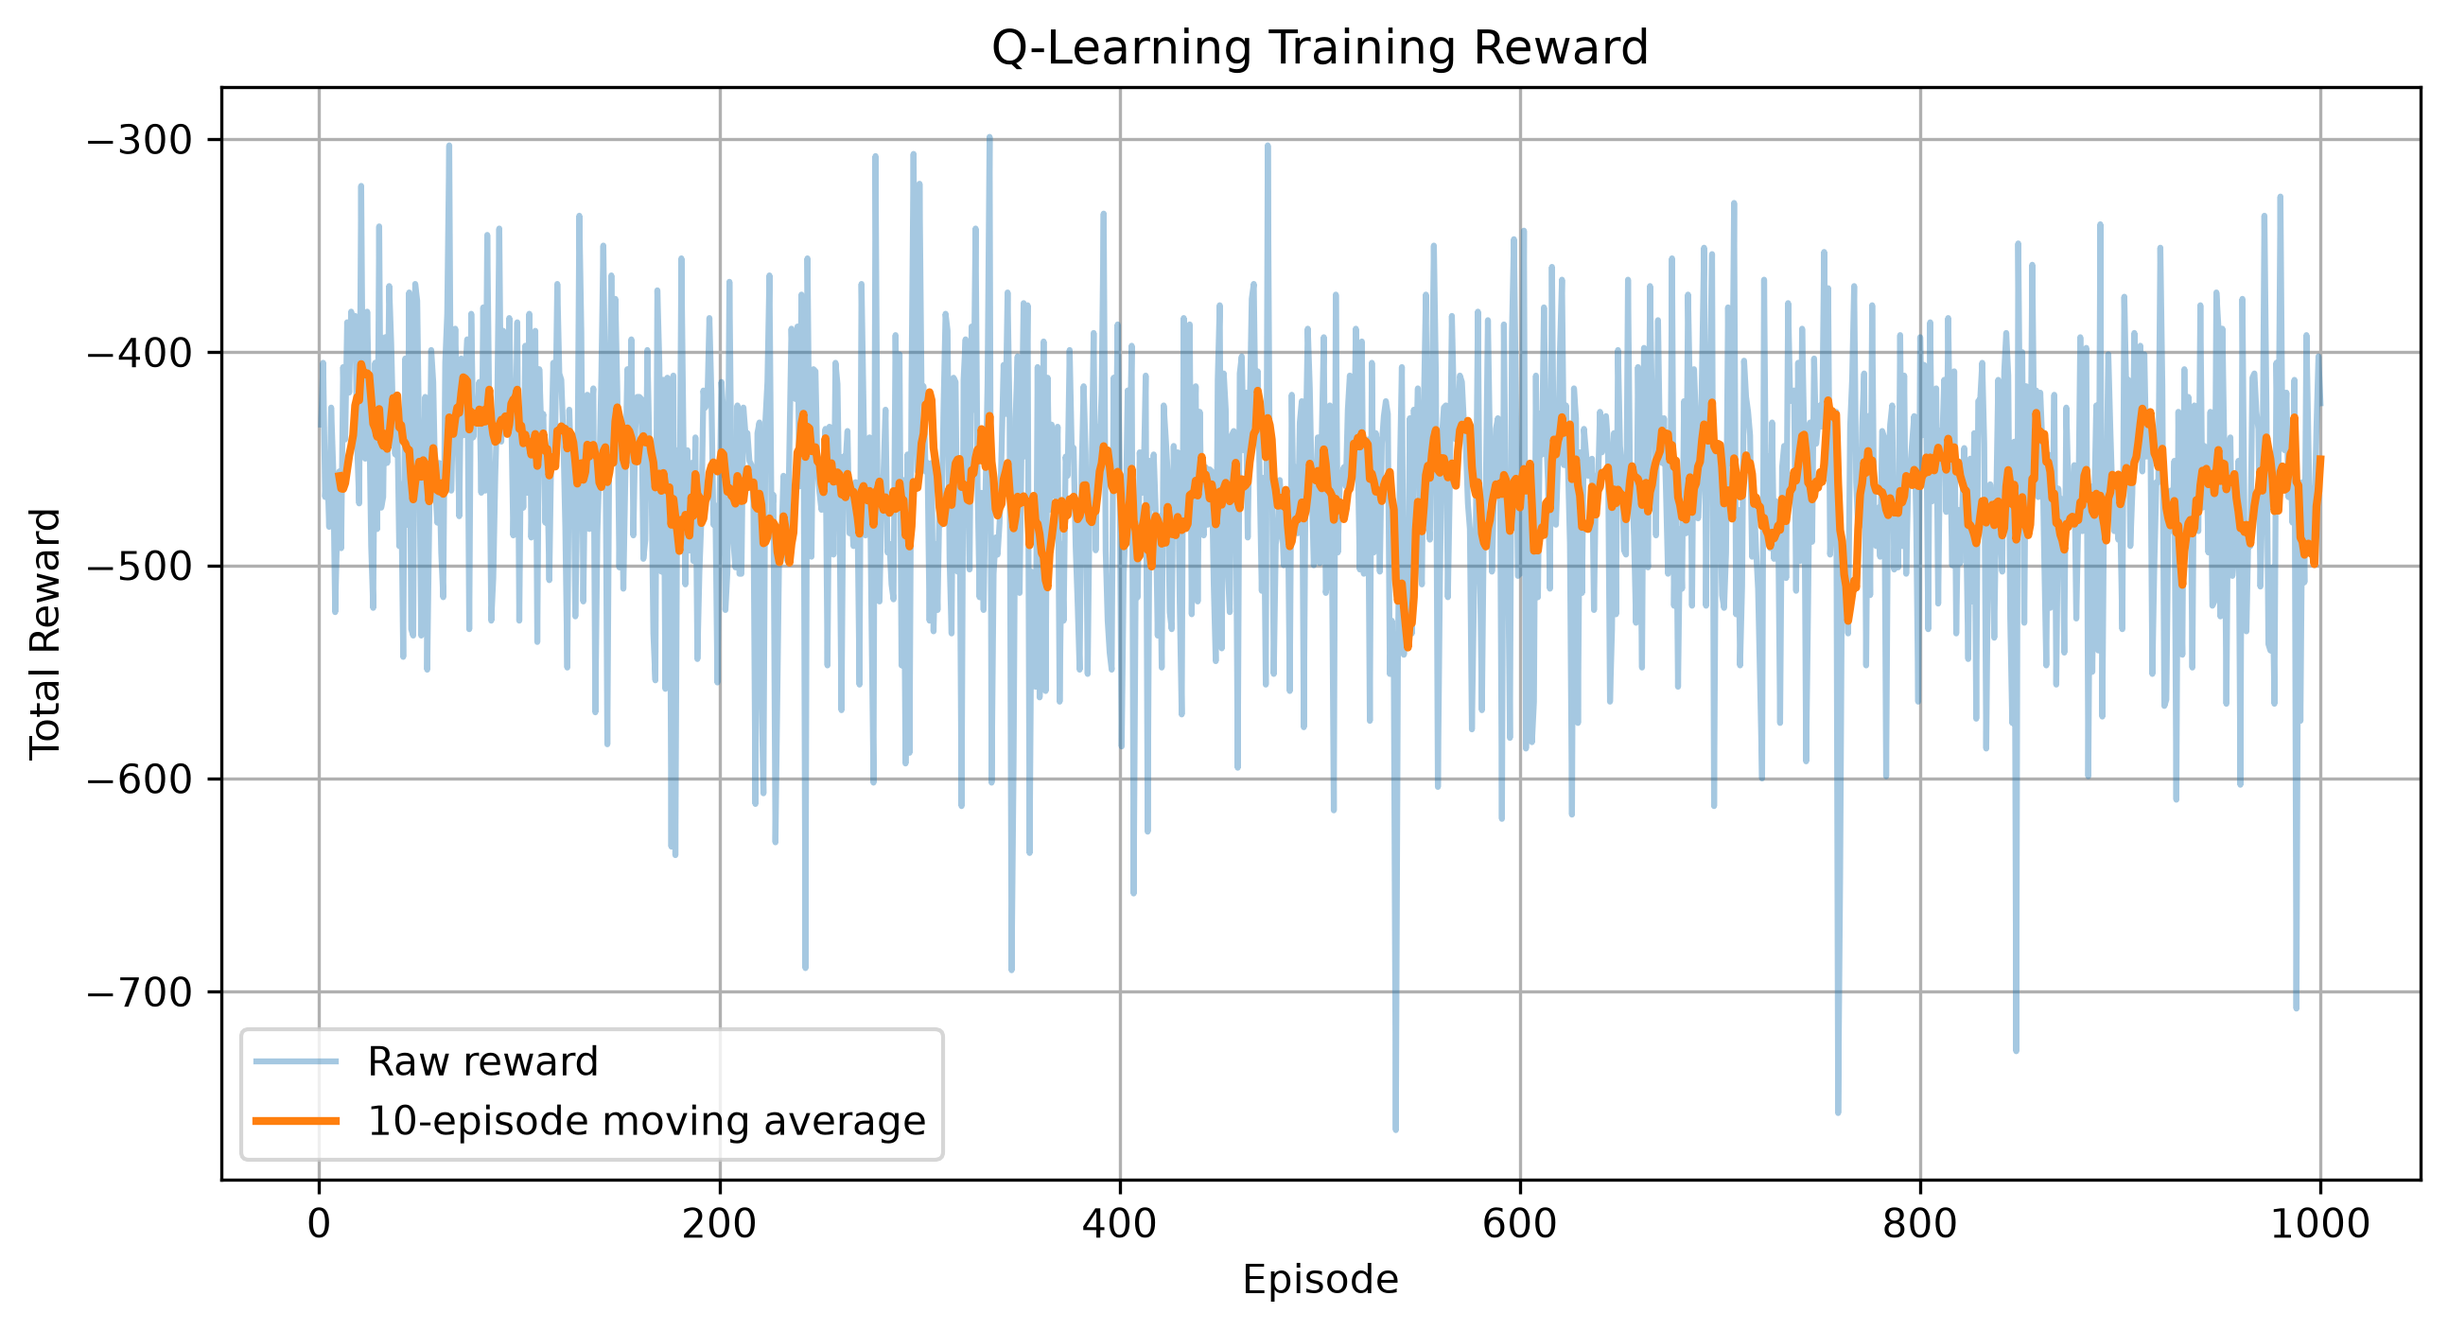
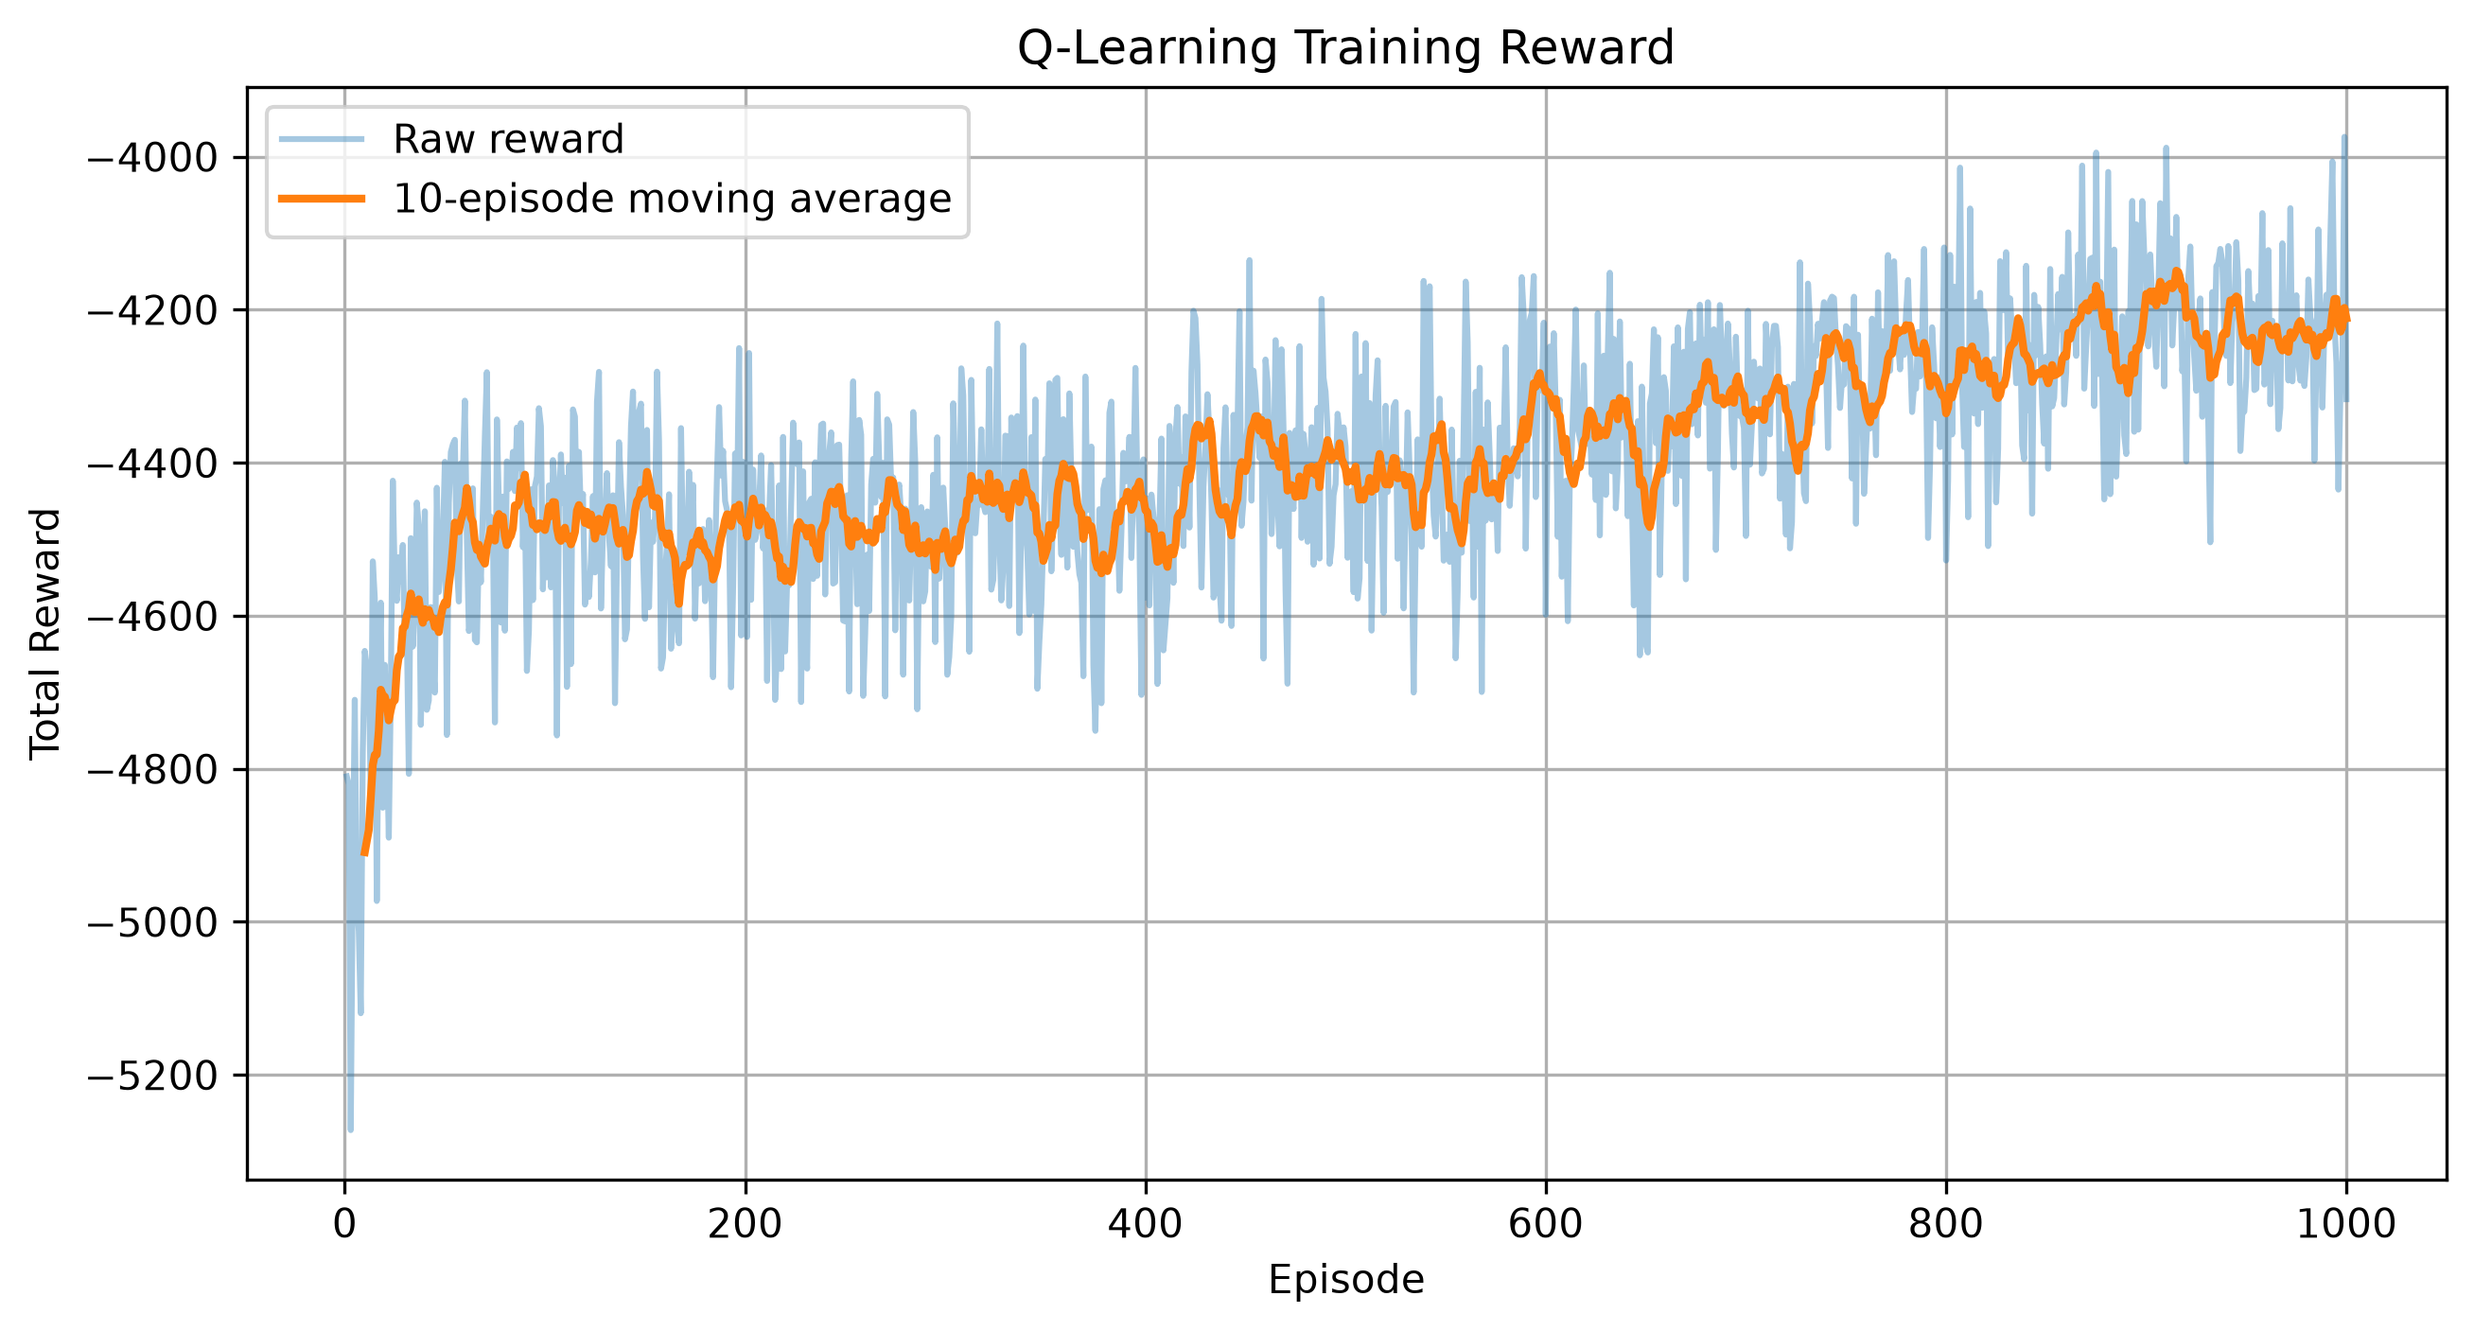
Stage 4: final single-day Q-learning agent, held-out evaluation, diagnostics

diff --git a/backend/rl/env.py b/backend/rl/env.py
@@ -8,8 +8,17 @@ DIR_CODE = {Direction.UP: 1, Direction.DOWN: -1, Direction.IDLE: 0}
 PERIOD_CODE = {TrafficPeriod.MORNING: 0, TrafficPeriod.LUNCH: 1, TrafficPeriod.EVENING: 2}
 
 # --- State abstraction settings (tune these to trade detail vs. learnability) ---
-ZONE_SIZE = 3             # floors per zone; 3 -> ~4 zones for 10 floors, 2 -> 5 zones (finer)
-LOAD_FULL_THRESHOLD = 6   # load at or above this counts as "full"; set to ~75% of elevator capacity
+ZONE_SIZE = 3             # floors per zone (v1 helpers, kept for compatibility)
+LOAD_FULL_THRESHOLD = 6   # load at or above this counts as "full"; ~75% of elevator capacity
+
+# --- State abstraction v2: features relative to the pending request ---
+DIST_NEAR = 2   # up to this many floors away = "near"
+DIST_MID = 5    # up to this many floors away = "mid", beyond = "far"
+
+# --- Reward shaping weights (tunable) ---
+ASSIGN_LOAD_COST = 1.0        # per request already held by the chosen elevator
+ASSIGN_DIST_COST = 0.5        # per floor between the chosen elevator and the pickup floor
+WAIT_COST_PER_REQUEST = 0.05  # per request in the system, per tick
 
 
 def floor_to_zone(floor: int) -> int:
@@ -26,19 +35,43 @@ def load_bucket(load: int) -> int:
     return 2
 
 
+def workload_bucket(n: int) -> int:
+    """Requests already assigned to or carried by an elevator."""
+    if n == 0:
+        return 0
+    if n <= 2:
+        return 1
+    if n <= 5:
+        return 2
+    return 3
+
+
+def distance_bucket(d: int) -> int:
+    """0 = near, 1 = mid, 2 = far (distance in floors to the pickup floor)."""
+    if d <= DIST_NEAR:
+        return 0
+    if d <= DIST_MID:
+        return 1
+    return 2
+
+
 class ElevatorEnv:
     """
-    STATE:  for each elevator -> (floor zone, direction, load bucket)
-            + pending request -> (source floor zone, direction of travel)
-            + current period
-            (abstracted on purpose: exact floors/loads gave ~87,000 states,
-            far too many for tabular Q-learning to cover)
-    ACTION: integer 0..NUM_ELEVATORS-1 — which elevator serves the
+    STATE:  for each elevator -> (workload bucket, distance bucket), where
+            workload = requests assigned to it + passengers onboard
+            (0, 1-2, 3-5, 6+) and distance = floors between the elevator
+            and the pending request's pickup floor (near / mid / far).
+            If no request is pending, the state is (-1,).
+            At most 12^3 + 1 = 1729 states.
+    ACTION: integer 0..NUM_ELEVATORS-1 - which elevator serves the
             current pending request
-    REWARD: -1 * waiting_time of each request completed this step
-            -0.1 per elevator that moved with no pickup/drop-off
-            work assigned (penalizes truly unnecessary movement,
-            not movement in general)
+    REWARD (shaped):
+            - at assignment: -(ASSIGN_LOAD_COST * requests the chosen elevator
+              already holds + ASSIGN_DIST_COST * its distance to the pickup
+              floor), so the consequence of the action is visible immediately
+            - every tick: -WAIT_COST_PER_REQUEST for each request in the
+              system (waiting, assigned or onboard)
+            - -0.1 per elevator that moved with no pickup/drop-off work
     EPISODE: one full simulated day (SIMULATION_STEPS)
     """
 
@@ -46,27 +79,29 @@ class ElevatorEnv:
         self.building = None
         self.simulator = None
 
-    def reset(self):
+    def reset(self, seed=None):
+        """Start a new simulated day. With no seed, use the default day
+        (RANDOM_SEED); pass a seed to get a different traffic pattern."""
         self.building = Building()
-        traffic_gen = TrafficGenerator(seed=RANDOM_SEED)
+        if seed is None:
+            seed = RANDOM_SEED
+        traffic_gen = TrafficGenerator(seed=seed)
         self.simulator = Simulator(self.building, traffic_gen)
         return self._encode_state()
 
     def _encode_state(self):
-        elevator_state = tuple(
-            (floor_to_zone(e.current_floor), DIR_CODE[e.direction], load_bucket(e.current_load))
+        req = self.building.next_waiting_request()
+        if req is None:
+            return (-1,)  # no pending request
+
+        src = req.passenger.source_floor
+        return tuple(
+            (
+                workload_bucket(len(e.assigned_requests) + len(e.onboard_requests)),
+                distance_bucket(abs(e.current_floor - src)),
+            )
             for e in self.building.elevators
         )
-        req = self.building.next_waiting_request()
-        if req:
-            src = req.passenger.source_floor
-            dst = req.passenger.destination_floor
-            travel_dir = 1 if dst > src else (-1 if dst < src else 0)
-            req_state = (floor_to_zone(src), travel_dir)
-        else:
-            req_state = (-1, 0)  # no pending request (-1 can't clash with a real zone)
-        period_state = PERIOD_CODE[self.building.current_period]
-        return elevator_state + req_state + (period_state,)
 
     def step(self, action: int):
         reward = 0.0
@@ -74,17 +109,26 @@ class ElevatorEnv:
 
         if req is not None:
             elevator = self.building.elevators[action]
+
+            # Immediate, action-dependent cost (measured before assigning)
+            load_before = len(elevator.assigned_requests) + len(elevator.onboard_requests)
+            dist = abs(elevator.current_floor - req.passenger.source_floor)
+            reward -= ASSIGN_LOAD_COST * load_before + ASSIGN_DIST_COST * dist
+
             elevator.assign_request(req)
             self.building.remove_request(req)
 
-        completed_before = self.building.completed_count
         self.simulator.tick()
-        completed_after = self.building.completed_count
 
-        # Reward: penalize waiting time for every request completed this step
-        newly_completed = self.building.completed_requests[completed_before:completed_after]
-        for r in newly_completed:
-            reward -= r.passenger.waiting_time or 0
+        # Small per-tick cost for every request still in the system
+        pending = self.building.pending_requests
+        if not isinstance(pending, int):
+            pending = len(pending)
+        in_system = pending + sum(
+            len(e.assigned_requests) + len(e.onboard_requests)
+            for e in self.building.elevators
+        )
+        reward -= WAIT_COST_PER_REQUEST * in_system
 
         # Small penalty for elevator movement with nothing to justify it
         for e in self.building.elevators:

diff --git a/backend/rl/test_q_learning.py b/backend/rl/test_q_learning.py
@@ -16,10 +16,11 @@ RESULTS_DIR.mkdir(parents=True, exist_ok=True)
 # =====================================================
 NUM_EPISODES = 1000
 MOVING_AVERAGE_WINDOW = 10
-EVAL_EPISODES = 10          # average the evaluation over several runs
+EVAL_SEEDS = list(range(1000, 1010))  # held-out days used for evaluation
+EVAL_EPISODES = len(EVAL_SEEDS)
 
 # =====================================================
-# Train
+# Train (single fixed day)
 # =====================================================
 env = ElevatorEnv()
 agent = QLearningAgent(epsilon_decay=0.99)
@@ -40,14 +41,14 @@ loaded_agent.load_q_table()
 print("States loaded:", len(loaded_agent.q_table))
 
 # =====================================================
-# Evaluate the trained agent (no exploration)
+# Evaluate the trained agent on held-out days (no exploration)
 # =====================================================
 loaded_agent.epsilon = 0.0
 
 served_list, waiting_list, avg_wait_list, reward_list = [], [], [], []
 
-for _ in range(EVAL_EPISODES):
-    state = env.reset()
+for eval_seed in EVAL_SEEDS:
+    state = env.reset(seed=eval_seed)
     done = False
     total_reward = 0.0
 
@@ -78,7 +79,7 @@ still_waiting = mean(waiting_list)
 avg_wait = mean(avg_wait_list)
 total_reward = mean(reward_list)
 
-print(f"\nTrained Agent Evaluation (mean of {EVAL_EPISODES} episodes)")
+print(f"\nTrained Agent Evaluation (mean of {EVAL_EPISODES} held-out days)")
 print("------------------------")
 print("Passengers served:", f"{completed:.1f}")
 print("Passengers still waiting:", f"{still_waiting:.1f}")
@@ -94,6 +95,8 @@ with open(results_file, "w", encoding="utf-8") as file:
     file.write("Q-LEARNING STAGE 4 RESULTS\n")
     file.write("==========================\n\n")
     file.write(f"Training episodes: {len(history)}\n")
+    file.write("Training traffic: single fixed day (default seed)\n")
+    file.write(f"Evaluation traffic seeds: {EVAL_SEEDS[0]} to {EVAL_SEEDS[-1]}\n")
     file.write(f"Learning rate (alpha): {agent.alpha}\n")
     file.write(f"Discount factor (gamma): {agent.gamma}\n")
     file.write("Initial epsilon: 1.0\n")
@@ -102,7 +105,7 @@ with open(results_file, "w", encoding="utf-8") as file:
     file.write(f"Final epsilon: {agent.epsilon:.3f}\n")
     file.write(f"States learned: {len(agent.q_table)}\n")
     file.write(f"States loaded: {len(loaded_agent.q_table)}\n\n")
-    file.write(f"Trained Agent Evaluation (mean of {EVAL_EPISODES} episodes)\n")
+    file.write(f"Trained Agent Evaluation (mean of {EVAL_EPISODES} held-out days)\n")
     file.write("------------------------\n")
     file.write(f"Passengers served: {completed:.1f}\n")
     file.write(f"Passengers still waiting: {still_waiting:.1f}\n")

diff --git a/backend/rl/generalization_check.py b/backend/rl/generalization_check.py
@@ -1,0 +1,47 @@
+import random
+
+from rl.env import ElevatorEnv
+from rl.q_learning import QLearningAgent
+from algorithms.nearest import NearestElevatorDispatcher
+from algorithms.least_loaded import LeastLoadedDispatcher
+from config import NUM_ELEVATORS
+
+# Fresh traffic days: not the training day, and not the 1000-1009 days
+# used for evaluation in test_q_learning.py
+SEEDS = list(range(2000, 2010))
+
+
+def run_day(seed, pick):
+    env = ElevatorEnv()
+    state = env.reset(seed=seed)
+    done = False
+    while not done:
+        action = pick(env, state)
+        state, _, done, _ = env.step(action)
+    served = env.building.completed_count
+    total_wait = sum(r.passenger.waiting_time for r in env.building.completed_requests)
+    return total_wait / served if served else 0.0
+
+
+agent = QLearningAgent()
+agent.load_q_table()
+agent.epsilon = 0.0
+
+nearest = NearestElevatorDispatcher()
+least = LeastLoadedDispatcher()
+
+results = {"Trained agent": [], "Random": [], "Nearest": [], "Least loaded": []}
+
+for seed in SEEDS:
+    rng = random.Random(seed)
+    results["Trained agent"].append(run_day(seed, lambda env, s: agent.choose_action(s)))
+    results["Random"].append(run_day(seed, lambda env, s: rng.randint(0, NUM_ELEVATORS - 1)))
+    results["Nearest"].append(run_day(seed, lambda env, s: nearest.choose_action(env.building)))
+    results["Least loaded"].append(run_day(seed, lambda env, s: least.choose_action(env.building)))
+
+print(f"\nAvg wait on {len(SEEDS)} unseen traffic days (seeds {SEEDS[0]} to {SEEDS[-1]})")
+for name, waits in results.items():
+    print(f"{name:<14} mean={sum(waits)/len(waits):.1f}  min={min(waits):.1f}  max={max(waits):.1f}")
+
+wins = sum(a < l for a, l in zip(results["Trained agent"], results["Least loaded"]))
+print(f"\nAgent beat Least loaded on {wins}/{len(SEEDS)} days")

diff --git a/backend/rl/diagnose_q.py b/backend/rl/diagnose_q.py
@@ -2,6 +2,8 @@ import random
 
 from rl.env import ElevatorEnv
 from rl.q_learning import QLearningAgent
+from algorithms.nearest import NearestElevatorDispatcher
+from algorithms.least_loaded import LeastLoadedDispatcher
 from config import NUM_ELEVATORS
 
 EPISODES = 10
@@ -42,7 +44,7 @@ steps = 0
 def greedy(state):
     global hits, steps
     steps += 1
-    if state in agent.q_table:      # check BEFORE choose_action creates the entry
+    if state in agent.q_table:
         hits += 1
     return agent.choose_action(state)
 
@@ -58,7 +60,26 @@ random_results = [
     for _ in range(EPISODES)
 ]
 
+# --- nearest elevator baseline ---
+nearest = NearestElevatorDispatcher()
+env = ElevatorEnv()
+nearest_results = [
+    run_episode(env, lambda s: nearest.choose_action(env.building))
+    for _ in range(EPISODES)
+]
+
+# --- least-loaded baseline ---
+least = LeastLoadedDispatcher()
+env = ElevatorEnv()
+least_results = [
+    run_episode(env, lambda s: least.choose_action(env.building))
+    for _ in range(EPISODES)
+]
+
 print()
 summarize("Trained agent", agent_results)
 summarize("Random policy", random_results)
+summarize("Nearest", nearest_results)
+summarize("Least loaded", least_results)
 print(f"\nState hit rate during evaluation: {hits}/{steps} = {hits/steps:.1%}")
+print(f"States in Q-table: {len(agent.q_table)}")

diff --git a/backend/rl/action_counts.py b/backend/rl/action_counts.py
@@ -1,0 +1,31 @@
+from collections import Counter
+
+from rl.env import ElevatorEnv
+from rl.q_learning import QLearningAgent
+from algorithms.nearest import NearestElevatorDispatcher
+from algorithms.least_loaded import LeastLoadedDispatcher
+
+
+def count_actions(env, pick):
+    state = env.reset()
+    counts = Counter()
+    done = False
+    while not done:
+        action = pick(state)
+        counts[action] += 1
+        state, _, done, _ = env.step(action)
+    return dict(sorted(counts.items()))
+
+
+env = ElevatorEnv()
+
+nearest = NearestElevatorDispatcher()
+print("Nearest:      ", count_actions(env, lambda s: nearest.choose_action(env.building)))
+
+least = LeastLoadedDispatcher()
+print("Least loaded: ", count_actions(env, lambda s: least.choose_action(env.building)))
+
+agent = QLearningAgent()
+agent.load_q_table()
+agent.epsilon = 0.0
+print("Trained agent:", count_actions(env, agent.choose_action))

diff --git a/backend/algorithms/least_loaded.py b/backend/algorithms/least_loaded.py
@@ -1,0 +1,19 @@
+from algorithms.base import BaseDispatcher
+
+
+class LeastLoadedDispatcher(BaseDispatcher):
+    """Pick the elevator with the fewest assigned+onboard requests;
+    break ties by distance to the pickup floor, then by index."""
+
+    def choose_action(self, building) -> int:
+        req = building.next_waiting_request()
+        if req is None:
+            return 0
+        src = req.passenger.source_floor
+
+        def key(i):
+            e = building.elevators[i]
+            load = len(e.assigned_requests) + len(e.onboard_requests)
+            return (load, abs(e.current_floor - src), i)
+
+        return min(range(len(building.elevators)), key=key)

diff --git a/backend/rl/q_learning.py b/backend/rl/q_learning.py
@@ -93,7 +93,8 @@ class QLearningAgent:
 
 def train(env, agent, num_episodes=1000):
     """
-    Train the Q-learning agent.
+    Train the Q-learning agent on the environment's single default day.
+
     Returns the total reward obtained in each episode.
     """
     history = []
